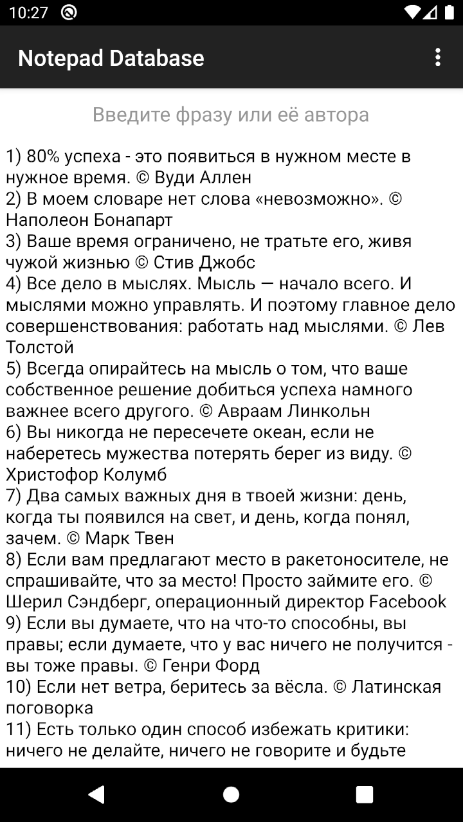
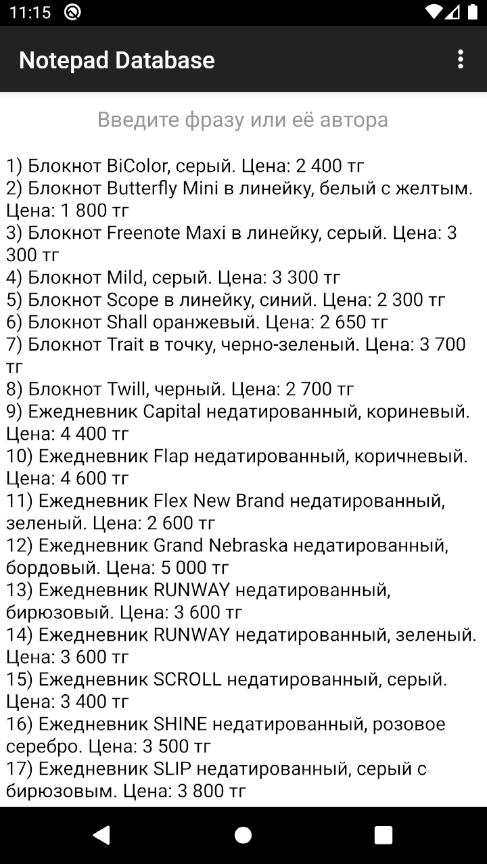
update

diff --git a/src/main/java/kz/bmk01/MySQLite.java b/src/main/java/kz/bmk01/MySQLite.java
@@ -14,15 +14,15 @@ import java.io.InputStreamReader;
 import java.util.StringTokenizer;
 
 public class MySQLite extends SQLiteOpenHelper {
-    static final String DATABASE_NAME = "notepad";
+    static final String DATABASE_NAME = "notepads";
     static final String TABLE_NAME = "emergency_service";
     static final String ID = "id";
-    static final String QUOTE = "quote";
-    static final String QUOTE_LC = "quote_lc"; // // Поле с цитатой в нижнем регистре
-    static final String QUOTER = "quoter";
-    static final String ASSETS_FILE_NAME = "notepad.txt";
+    static final String NOTEPAD = "notepad";
+    static final String NOTEPAD_LC = "notepad_lc"; // // Поле с цитатой в нижнем регистре
+    static final String PRICE = "price";
+    static final String ASSETS_FILE_NAME = "notepads.txt";
     static final String DATA_SEPARATOR = "*";
-    private static final int DATABASE_VERSION = 1;
+    private static final int DATABASE_VERSION = 2;
     private final Context context;
 
     public MySQLite(Context context) {
@@ -34,9 +34,9 @@ public class MySQLite extends SQLiteOpenHelper {
     public void onCreate(SQLiteDatabase db) {
         String CREATE_CONTACTS_TABLE = "CREATE TABLE " + TABLE_NAME + "("
                 + ID + " INTEGER PRIMARY KEY,"
-                + QUOTE + " TEXT,"
-                + QUOTE_LC + " TEXT,"
-                + QUOTER + " TEXT" + ")";
+                + NOTEPAD + " TEXT,"
+                + NOTEPAD_LC + " TEXT,"
+                + PRICE + " TEXT" + ")";
         db.execSQL(CREATE_CONTACTS_TABLE);
         loadDataFromAsset(context, ASSETS_FILE_NAME, db);
     }
@@ -48,11 +48,11 @@ public class MySQLite extends SQLiteOpenHelper {
     }
 
     // Добавление новой цитаты в БД
-    public void addData(SQLiteDatabase db, String quote, String quoter) {
+    public void addData(SQLiteDatabase db, String notepad, String price) {
         ContentValues values = new ContentValues();
-        values.put(QUOTE, quote);
-        values.put(QUOTE_LC, quote.toLowerCase());
-        values.put(QUOTER, quoter);
+        values.put(NOTEPAD, notepad);
+        values.put(NOTEPAD_LC, notepad.toLowerCase());
+        values.put(PRICE, price);
         db.insert(TABLE_NAME, null, values);
     }
 
@@ -71,9 +71,9 @@ public class MySQLite extends SQLiteOpenHelper {
                 String strTrim = str.trim(); // Убираем у строки пробелы с концов
                 if (!strTrim.equals("")) { // Если строка не пустая, то
                     StringTokenizer st = new StringTokenizer(strTrim, DATA_SEPARATOR); // Нарезаем ее на части
-                    String quote = st.nextToken().trim(); // Извлекаем из строки название организации без пробелов на концах
-                    String quoter = st.nextToken().trim(); // Извлекаем из строки номер организации без пробелов на концах
-                    addData(db, quote, quoter); // Добавляем название и телефон в базу данных
+                    String notepad = st.nextToken().trim(); // Извлекаем из строки название организации без пробелов на концах
+                    String price = st.nextToken().trim(); // Извлекаем из строки номер организации без пробелов на концах
+                    addData(db, notepad, price); // Добавляем название и телефон в базу данных
                 }
             }
 
@@ -96,11 +96,11 @@ public class MySQLite extends SQLiteOpenHelper {
         String selectQuery; // Переменная для SQL-запроса
 
         if (filter.equals("")) {
-            selectQuery = "SELECT  * FROM " + TABLE_NAME + " ORDER BY " + QUOTE;
+            selectQuery = "SELECT  * FROM " + TABLE_NAME + " ORDER BY " + NOTEPAD;
         } else {
-            selectQuery = "SELECT  * FROM " + TABLE_NAME + " WHERE (" + QUOTE_LC + " LIKE '%" +
+            selectQuery = "SELECT  * FROM " + TABLE_NAME + " WHERE (" + NOTEPAD_LC + " LIKE '%" +
                     filter.toLowerCase() + "%'" +
-                    " OR " + QUOTER + " LIKE '%" + filter + "%'" + ") ORDER BY " + QUOTE;
+                    " OR " + PRICE + " LIKE '%" + filter + "%'" + ") ORDER BY " + NOTEPAD;
         }
         SQLiteDatabase db = this.getReadableDatabase(); // Доступ к БД
         @SuppressLint("Recycle") Cursor cursor = db.rawQuery(selectQuery, null); // Выполнение SQL-запроса
@@ -110,9 +110,9 @@ public class MySQLite extends SQLiteOpenHelper {
         int num = 0;
         if (cursor.moveToFirst()) { // Если есть хоть одна запись, то
             do { // Цикл по всем записям результата запроса
-                String quote = cursor.getString(1); // Чтение цитатой
-                String quoter = cursor.getString(3); // Чтение автора цитаты
-                data.append(++num).append(") ").append(quote).append(" © ").append(quoter).append("\n");
+                String notepad = cursor.getString(1); // Чтение цитатой
+                String price = cursor.getString(3); // Чтение автора цитаты
+                data.append(++num).append(") ").append(notepad).append(". Цена: ").append(price).append(" тг").append("\n");
             } while (cursor.moveToNext()); // Цикл пока есть следующая запись
         }
         return data.toString(); // Возвращение результата
